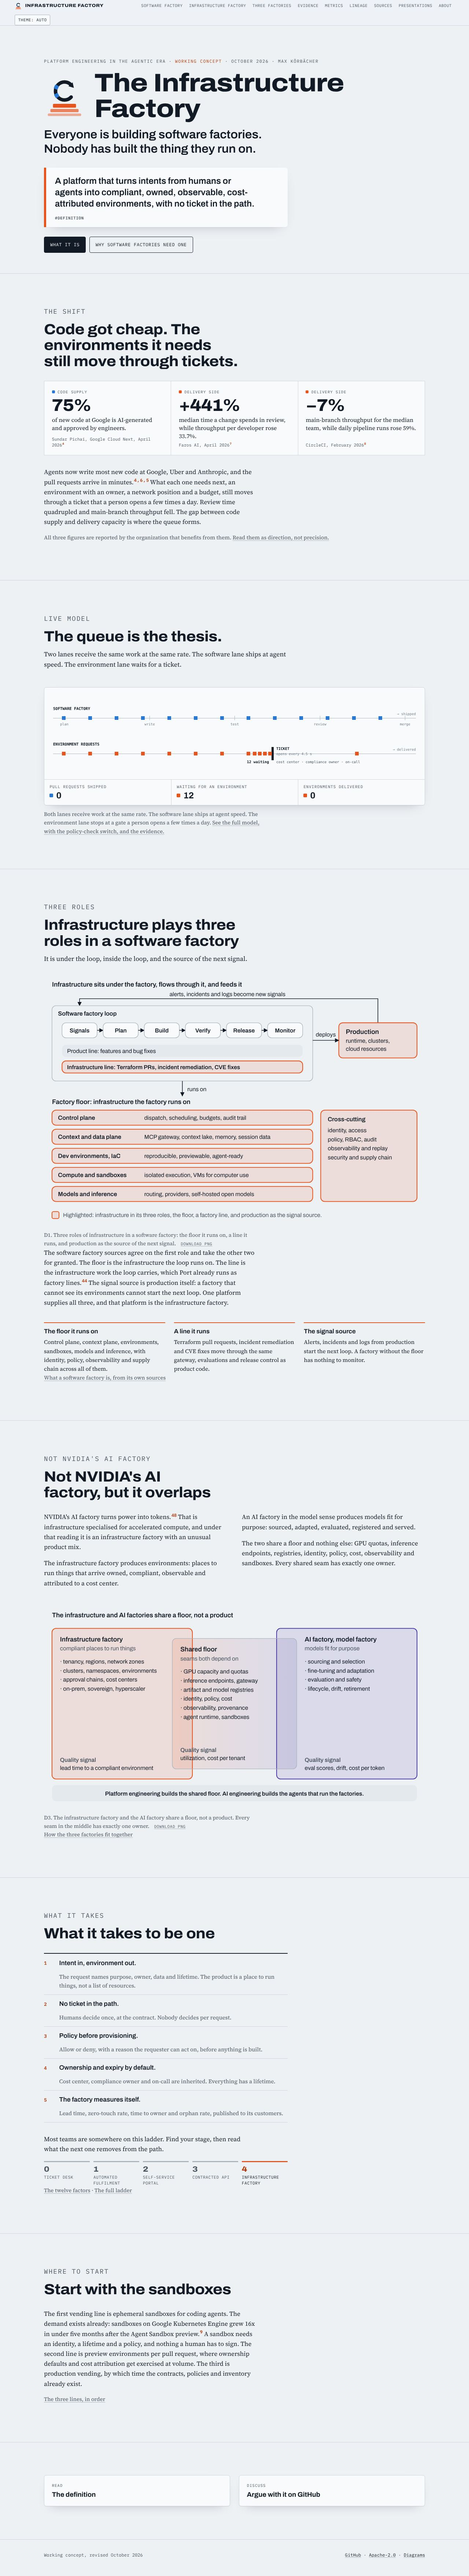
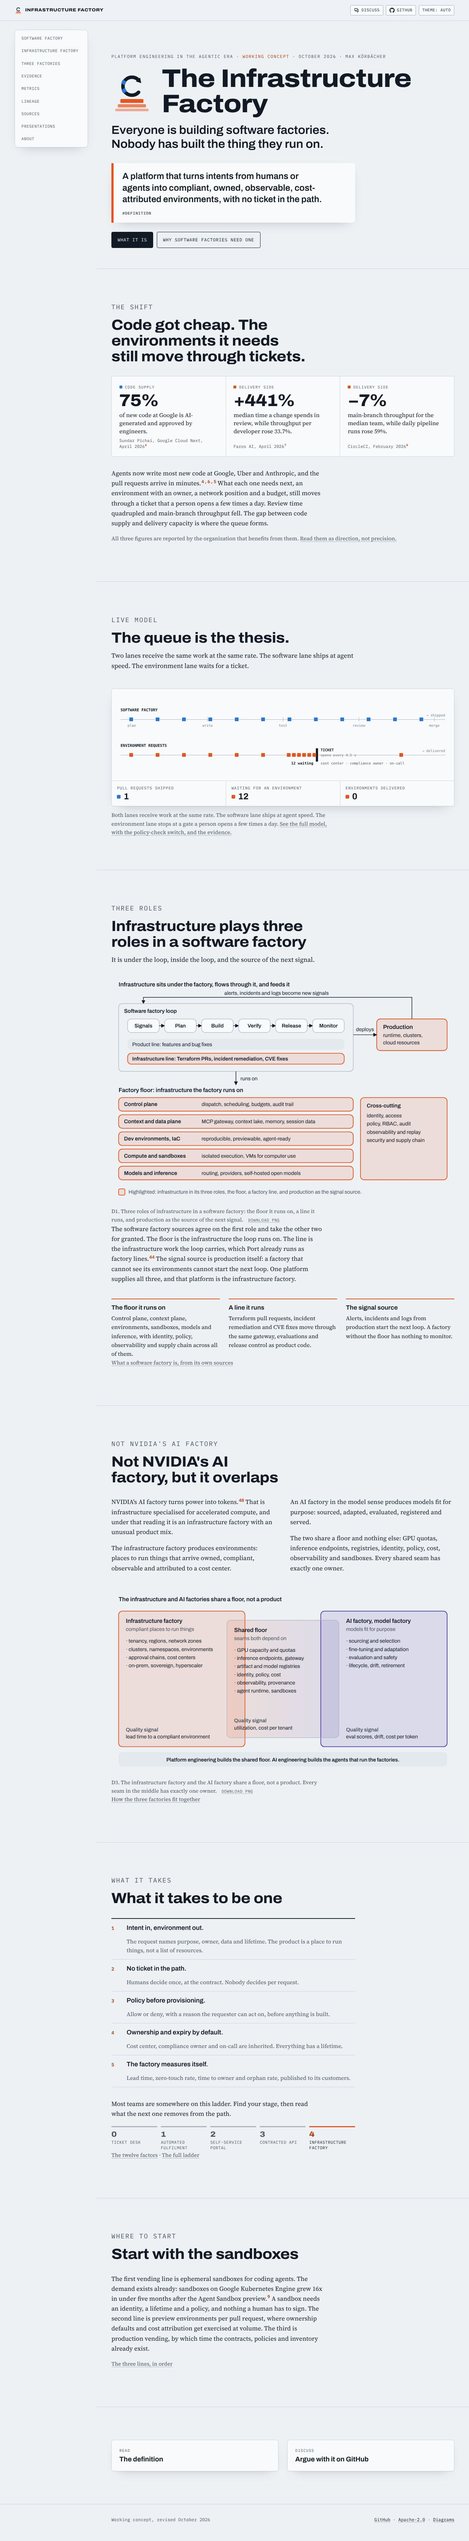
Header: Discuss and GitHub buttons, pages as a floating left rail
The top bar now holds the wordmark, a Discuss button (GitHub
Discussions), a GitHub button (the repository) and the theme switch.
The page links move out of the bar: from 1280px they float in a card at
the left edge that stays put while the page scrolls, with the current
page marked, and the content moves over to make room. Below 1280px the
Pages button opens them as a drop-down under the bar, as the phone menu
did before; on phones the two new buttons show their icons only. All
of it still works without JavaScript, and the header stays byte-identical
across pages. PR screenshots retaken.

Claude-Session: https://claude.ai/code/session_017GWBD8DaegsK6NQcPEY7no

diff --git a/assets/site.css b/assets/site.css
@@ -27,6 +27,7 @@
   --font-mono: "IBM Plex Mono", "IBM Plex Mono Fallback", ui-monospace, "SFMono-Regular", Menlo, Consolas, monospace;
   --measure: 66ch;
   --frame: 1120px;
+  --rail-w: 200px;        /* the floating pages rail from 1280px */
   --gutter: clamp(16px, 4vw, 40px);
   --radius: 6px;
 }
@@ -136,7 +137,7 @@ tbody tr:hover { background: var(--surface-2); }
   -webkit-backdrop-filter: blur(10px); backdrop-filter: blur(10px);
   border-bottom: 1px solid var(--line);
 }
-.site-nav .frame { display: flex; flex-wrap: wrap; align-items: center; gap: 0.5rem 1rem; min-height: 56px; width: min(1320px, 100%); position: relative; }
+.site-nav .frame { display: flex; flex-wrap: wrap; align-items: center; gap: 0.5rem 0.8rem; min-height: 56px; width: min(1320px, 100%); position: relative; }
 .wordmark {
   font-family: var(--font-display); font-weight: 800; font-stretch: 112%; letter-spacing: 0.04em;
   text-transform: uppercase; font-size: 0.76rem; text-decoration: none; white-space: nowrap;
@@ -144,40 +145,51 @@ tbody tr:hover { background: var(--surface-2); }
 }
 .wordmark .mark { width: 20px; height: 20px; flex: none; display: block; }
 .nav-toggle { position: absolute; width: 1px; height: 1px; margin: -1px; opacity: 0; overflow: hidden; }
-.menu-btn { display: none; }
-.nav-links { margin-left: auto; min-width: 0; }
-.nav-links ul { list-style: none; margin: 0; padding: 0; display: flex; gap: 0.2rem; }
+/* the bar: wordmark left, actions right (Discuss, GitHub, theme), and the Pages button until the rail has room */
+.nav-actions { display: flex; align-items: center; gap: 0.45rem; margin-left: auto; order: 1; }
+.nav-btn, .theme-btn, .menu-btn {
+  flex: none; display: inline-flex; align-items: center; gap: 0.4rem; border: 1px solid var(--line-strong); background: var(--surface); color: var(--fg);
+  font-family: var(--font-mono); font-size: 0.68rem; letter-spacing: 0.05em; text-transform: uppercase; line-height: 1.2;
+  padding: 0.4rem 0.55rem; border-radius: 3px; text-decoration: none; cursor: pointer;
+}
+.nav-btn svg { width: 14px; height: 14px; display: block; fill: currentColor; }
+.nav-btn:hover, .theme-btn:hover, .menu-btn:hover { border-color: var(--accent); }
+.nav-btn:hover { color: var(--accent-ink); }
+.menu-btn { order: 2; }
+.nav-toggle:focus-visible ~ .menu-btn { outline: 2px solid var(--accent); outline-offset: 3px; }
+.nav-toggle:checked ~ .menu-btn { background: var(--fg); color: var(--bg); }
+/* the pages: a drop-down under the bar, opened by the Pages button, until there is room for the rail */
+.nav-links { display: none; order: 3; flex: 1 1 100%; min-width: 0; margin: 0.2rem 0 0; padding: 0 0 0.4rem; }
+.nav-toggle:checked ~ .nav-links { display: block; }
+.nav-links ul { list-style: none; margin: 0; padding: 0; display: flex; flex-direction: column; gap: 0; }
 .nav-links li a {
-  display: block; padding: 0.45rem 0.45rem; font-family: var(--font-mono); font-size: 0.68rem; letter-spacing: 0.05em;
-  text-transform: uppercase; text-decoration: none; color: var(--muted); white-space: nowrap; border-radius: 3px;
+  display: block; padding: 0.7rem 0.5rem; border-top: 1px solid var(--line); font-family: var(--font-mono); font-size: 0.78rem; letter-spacing: 0.05em;
+  text-transform: uppercase; text-decoration: none; color: var(--muted);
 }
-.nav-links li a:hover, .nav-links li a[aria-current="page"] { color: var(--fg); background: var(--surface-2); }
-.theme-btn {
-  flex: none; border: 1px solid var(--line-strong); background: var(--surface); color: var(--fg);
-  font-family: var(--font-mono); font-size: 0.68rem; letter-spacing: 0.05em; text-transform: uppercase;
-  padding: 0.4rem 0.55rem; border-radius: 3px; cursor: pointer;
-}
-.theme-btn:hover { border-color: var(--accent); }
-@media (max-width: 1100px) {
-  .site-nav .frame { padding-top: 0.55rem; min-height: 0; }
-  .theme-btn { margin-left: auto; }
-  .nav-links { order: 3; flex: 1 1 100%; margin: 0.15rem 0 0; padding-bottom: 0.25rem; }
-  .nav-links ul { flex-wrap: wrap; }
-}
+.nav-links li a:hover, .nav-links li a[aria-current="page"] { color: var(--fg); }
+.nav-links li a[aria-current="page"] { box-shadow: inset 3px 0 0 var(--accent); padding-left: 0.8rem; }
 @media (max-width: 720px) {
-  .site-nav .frame { padding-bottom: 0.55rem; }
+  .site-nav .frame { padding-block: 0.55rem; min-height: 0; gap: 0.5rem 0.6rem; }
   .wordmark { font-size: 0.74rem; }
-  .theme-btn { order: 1; font-size: 0.66rem; padding: 0.35rem 0.5rem; }
-  .menu-btn {
-    display: inline-flex; order: 2; align-items: center; border: 1px solid var(--line-strong); background: var(--surface); color: var(--fg);
-    font-family: var(--font-mono); font-size: 0.66rem; letter-spacing: 0.05em; text-transform: uppercase; padding: 0.35rem 0.55rem; border-radius: 3px; cursor: pointer;
+  .nav-actions { gap: 0.35rem; }
+  .nav-btn, .theme-btn, .menu-btn { font-size: 0.66rem; padding: 0.35rem 0.5rem; }
+  .nav-btn .label { position: absolute; width: 1px; height: 1px; margin: -1px; padding: 0; overflow: hidden; clip: rect(0 0 0 0); white-space: nowrap; }
+  .nav-btn { padding: 0.45rem 0.5rem; }
+}
+/* the rail: from 1280px the pages float at the left edge and the content moves over to make room */
+@media (min-width: 1280px) {
+  .site-nav .frame { width: 100%; }
+  .menu-btn { display: none; }
+  .nav-links {
+    display: block; position: fixed; left: var(--gutter); top: calc(81px + env(safe-area-inset-top, 0px)); width: var(--rail-w);
+    max-height: calc(100vh - 105px); overflow: auto; flex: none; margin: 0; padding: 0.4rem;
+    background: var(--surface); border: 1px solid var(--line); border-radius: 8px; box-shadow: var(--shadow);
   }
-  .nav-toggle:focus-visible ~ .menu-btn { outline: 2px solid var(--accent); outline-offset: 3px; }
-  .nav-toggle:checked ~ .menu-btn { background: var(--fg); color: var(--bg); }
-  .nav-links { display: none; order: 3; flex: 1 1 100%; margin: 0.2rem 0 0; padding: 0; }
-  .nav-toggle:checked ~ .nav-links { display: block; }
-  .nav-links ul { flex-direction: column; gap: 0; }
-  .nav-links li a { padding: 0.7rem 0.4rem; border-top: 1px solid var(--line); font-size: 0.78rem; white-space: normal; }
+  .nav-links ul { gap: 2px; }
+  .nav-links li a { padding: 0.55rem 0.7rem; border-top: 0; border-radius: 4px; font-size: 0.68rem; line-height: 1.35; }
+  .nav-links li a:hover { background: var(--surface-2); }
+  .nav-links li a[aria-current="page"] { background: var(--accent-soft); box-shadow: inset 3px 0 0 var(--accent); padding-left: 0.7rem; }
+  main, .prevnext, .site-footer { padding-left: calc(var(--gutter) + var(--rail-w) + 1.5rem); }
 }
 
 /* ---------- hero ---------- */

diff --git a/about/index.html b/about/index.html
@@ -33,9 +33,9 @@
 <header class="site-nav">
   <div class="frame">
     <a class="wordmark" href="/"><svg class="mark" viewBox="0 0 64 64" xmlns="http://www.w3.org/2000/svg" aria-hidden="true" focusable="false"><rect x="14" y="44" width="36" height="6" rx="1.5" fill="var(--accent)" fill-opacity="1.0"/><rect x="10" y="52" width="44" height="5" rx="1.5" fill="var(--accent)" fill-opacity="0.7"/><rect x="6" y="59" width="52" height="4" rx="1.5" fill="var(--accent)" fill-opacity="0.45"/><path d="M42.4,33.4 A14,14 0 1 1 42.4,14.6" fill="none" stroke="currentColor" stroke-width="5.5" stroke-linecap="round"/><polygon points="38.2,16.5 44.7,10.6 46.6,19.2" fill="currentColor"/><rect x="16.7" y="27.8" width="6.4" height="6.4" rx="1" transform="rotate(240 19.9 31)" fill="var(--blue)"/><rect x="16.1" y="14.9" width="6.4" height="6.4" rx="1" transform="rotate(295 19.3 18.1)" fill="var(--blue)"/></svg>Infrastructure Factory</a>
-    <input type="checkbox" id="nav-toggle" class="nav-toggle" aria-label="Open the menu">
-    <label for="nav-toggle" class="menu-btn" aria-hidden="true">Menu</label>
-    <nav class="nav-links" aria-label="Site">
+    <input type="checkbox" id="nav-toggle" class="nav-toggle" aria-label="Open the pages menu">
+    <label for="nav-toggle" class="menu-btn" aria-hidden="true">Pages</label>
+    <nav class="nav-links" aria-label="Pages">
       <ul>
           <li><a href="/software-factory/">Software factory</a></li>
           <li><a href="/infrastructure-factory/">Infrastructure factory</a></li>
@@ -48,7 +48,11 @@
           <li><a href="/about/" aria-current="page">About</a></li>
       </ul>
     </nav>
-    <button class="theme-btn" id="theme-btn" type="button">Theme: auto</button>
+    <div class="nav-actions">
+      <a class="nav-btn" href="https://github.com/mkorbi/infrastructure-factory/discussions"><svg viewBox="0 0 16 16" aria-hidden="true" focusable="false"><path d="M2.5 2.5h8v6h-4l-2.5 2.5v-2.5h-1.5z" fill="none" stroke="currentColor" stroke-width="1.4" stroke-linejoin="round"/><path d="M12 5.5h1.5v6h-1.5v2.5l-2.5-2.5h-3" fill="none" stroke="currentColor" stroke-width="1.4" stroke-linejoin="round"/></svg><span class="label">Discuss</span></a>
+      <a class="nav-btn" href="https://github.com/mkorbi/infrastructure-factory"><svg viewBox="0 0 16 16" aria-hidden="true" focusable="false"><path d="M8 0C3.58 0 0 3.58 0 8c0 3.54 2.29 6.53 5.47 7.59.4.07.55-.17.55-.38 0-.19-.01-.82-.01-1.49-2.01.37-2.53-.49-2.69-.94-.09-.23-.48-.94-.82-1.13-.28-.15-.68-.52-.01-.53.63-.01 1.08.58 1.23.82.72 1.21 1.87.87 2.33.66.07-.52.28-.87.51-1.07-1.78-.2-3.64-.89-3.64-3.95 0-.87.31-1.59.82-2.15-.08-.2-.36-1.02.08-2.12 0 0 .67-.21 2.2.82.64-.18 1.32-.27 2-.27.68 0 1.36.09 2 .27 1.53-1.04 2.2-.82 2.2-.82.44 1.1.16 1.92.08 2.12.51.56.82 1.27.82 2.15 0 3.07-1.87 3.75-3.65 3.95.29.25.54.73.54 1.48 0 1.07-.01 1.93-.01 2.2 0 .21.15.46.55.38A8.013 8.013 0 0 0 16 8c0-4.42-3.58-8-8-8z"/></svg><span class="label">GitHub</span></a>
+      <button class="theme-btn" id="theme-btn" type="button">Theme: auto</button>
+    </div>
   </div>
 </header>
 <main id="main">

diff --git a/infrastructure-factory/index.html b/infrastructure-factory/index.html
@@ -33,9 +33,9 @@
 <header class="site-nav">
   <div class="frame">
     <a class="wordmark" href="/"><svg class="mark" viewBox="0 0 64 64" xmlns="http://www.w3.org/2000/svg" aria-hidden="true" focusable="false"><rect x="14" y="44" width="36" height="6" rx="1.5" fill="var(--accent)" fill-opacity="1.0"/><rect x="10" y="52" width="44" height="5" rx="1.5" fill="var(--accent)" fill-opacity="0.7"/><rect x="6" y="59" width="52" height="4" rx="1.5" fill="var(--accent)" fill-opacity="0.45"/><path d="M42.4,33.4 A14,14 0 1 1 42.4,14.6" fill="none" stroke="currentColor" stroke-width="5.5" stroke-linecap="round"/><polygon points="38.2,16.5 44.7,10.6 46.6,19.2" fill="currentColor"/><rect x="16.7" y="27.8" width="6.4" height="6.4" rx="1" transform="rotate(240 19.9 31)" fill="var(--blue)"/><rect x="16.1" y="14.9" width="6.4" height="6.4" rx="1" transform="rotate(295 19.3 18.1)" fill="var(--blue)"/></svg>Infrastructure Factory</a>
-    <input type="checkbox" id="nav-toggle" class="nav-toggle" aria-label="Open the menu">
-    <label for="nav-toggle" class="menu-btn" aria-hidden="true">Menu</label>
-    <nav class="nav-links" aria-label="Site">
+    <input type="checkbox" id="nav-toggle" class="nav-toggle" aria-label="Open the pages menu">
+    <label for="nav-toggle" class="menu-btn" aria-hidden="true">Pages</label>
+    <nav class="nav-links" aria-label="Pages">
       <ul>
           <li><a href="/software-factory/">Software factory</a></li>
           <li><a href="/infrastructure-factory/" aria-current="page">Infrastructure factory</a></li>
@@ -48,7 +48,11 @@
           <li><a href="/about/">About</a></li>
       </ul>
     </nav>
-    <button class="theme-btn" id="theme-btn" type="button">Theme: auto</button>
+    <div class="nav-actions">
+      <a class="nav-btn" href="https://github.com/mkorbi/infrastructure-factory/discussions"><svg viewBox="0 0 16 16" aria-hidden="true" focusable="false"><path d="M2.5 2.5h8v6h-4l-2.5 2.5v-2.5h-1.5z" fill="none" stroke="currentColor" stroke-width="1.4" stroke-linejoin="round"/><path d="M12 5.5h1.5v6h-1.5v2.5l-2.5-2.5h-3" fill="none" stroke="currentColor" stroke-width="1.4" stroke-linejoin="round"/></svg><span class="label">Discuss</span></a>
+      <a class="nav-btn" href="https://github.com/mkorbi/infrastructure-factory"><svg viewBox="0 0 16 16" aria-hidden="true" focusable="false"><path d="M8 0C3.58 0 0 3.58 0 8c0 3.54 2.29 6.53 5.47 7.59.4.07.55-.17.55-.38 0-.19-.01-.82-.01-1.49-2.01.37-2.53-.49-2.69-.94-.09-.23-.48-.94-.82-1.13-.28-.15-.68-.52-.01-.53.63-.01 1.08.58 1.23.82.72 1.21 1.87.87 2.33.66.07-.52.28-.87.51-1.07-1.78-.2-3.64-.89-3.64-3.95 0-.87.31-1.59.82-2.15-.08-.2-.36-1.02.08-2.12 0 0 .67-.21 2.2.82.64-.18 1.32-.27 2-.27.68 0 1.36.09 2 .27 1.53-1.04 2.2-.82 2.2-.82.44 1.1.16 1.92.08 2.12.51.56.82 1.27.82 2.15 0 3.07-1.87 3.75-3.65 3.95.29.25.54.73.54 1.48 0 1.07-.01 1.93-.01 2.2 0 .21.15.46.55.38A8.013 8.013 0 0 0 16 8c0-4.42-3.58-8-8-8z"/></svg><span class="label">GitHub</span></a>
+      <button class="theme-btn" id="theme-btn" type="button">Theme: auto</button>
+    </div>
   </div>
 </header>
 <main id="main">

diff --git a/software-factory/index.html b/software-factory/index.html
@@ -33,9 +33,9 @@
 <header class="site-nav">
   <div class="frame">
     <a class="wordmark" href="/"><svg class="mark" viewBox="0 0 64 64" xmlns="http://www.w3.org/2000/svg" aria-hidden="true" focusable="false"><rect x="14" y="44" width="36" height="6" rx="1.5" fill="var(--accent)" fill-opacity="1.0"/><rect x="10" y="52" width="44" height="5" rx="1.5" fill="var(--accent)" fill-opacity="0.7"/><rect x="6" y="59" width="52" height="4" rx="1.5" fill="var(--accent)" fill-opacity="0.45"/><path d="M42.4,33.4 A14,14 0 1 1 42.4,14.6" fill="none" stroke="currentColor" stroke-width="5.5" stroke-linecap="round"/><polygon points="38.2,16.5 44.7,10.6 46.6,19.2" fill="currentColor"/><rect x="16.7" y="27.8" width="6.4" height="6.4" rx="1" transform="rotate(240 19.9 31)" fill="var(--blue)"/><rect x="16.1" y="14.9" width="6.4" height="6.4" rx="1" transform="rotate(295 19.3 18.1)" fill="var(--blue)"/></svg>Infrastructure Factory</a>
-    <input type="checkbox" id="nav-toggle" class="nav-toggle" aria-label="Open the menu">
-    <label for="nav-toggle" class="menu-btn" aria-hidden="true">Menu</label>
-    <nav class="nav-links" aria-label="Site">
+    <input type="checkbox" id="nav-toggle" class="nav-toggle" aria-label="Open the pages menu">
+    <label for="nav-toggle" class="menu-btn" aria-hidden="true">Pages</label>
+    <nav class="nav-links" aria-label="Pages">
       <ul>
           <li><a href="/software-factory/" aria-current="page">Software factory</a></li>
           <li><a href="/infrastructure-factory/">Infrastructure factory</a></li>
@@ -48,7 +48,11 @@
           <li><a href="/about/">About</a></li>
       </ul>
     </nav>
-    <button class="theme-btn" id="theme-btn" type="button">Theme: auto</button>
+    <div class="nav-actions">
+      <a class="nav-btn" href="https://github.com/mkorbi/infrastructure-factory/discussions"><svg viewBox="0 0 16 16" aria-hidden="true" focusable="false"><path d="M2.5 2.5h8v6h-4l-2.5 2.5v-2.5h-1.5z" fill="none" stroke="currentColor" stroke-width="1.4" stroke-linejoin="round"/><path d="M12 5.5h1.5v6h-1.5v2.5l-2.5-2.5h-3" fill="none" stroke="currentColor" stroke-width="1.4" stroke-linejoin="round"/></svg><span class="label">Discuss</span></a>
+      <a class="nav-btn" href="https://github.com/mkorbi/infrastructure-factory"><svg viewBox="0 0 16 16" aria-hidden="true" focusable="false"><path d="M8 0C3.58 0 0 3.58 0 8c0 3.54 2.29 6.53 5.47 7.59.4.07.55-.17.55-.38 0-.19-.01-.82-.01-1.49-2.01.37-2.53-.49-2.69-.94-.09-.23-.48-.94-.82-1.13-.28-.15-.68-.52-.01-.53.63-.01 1.08.58 1.23.82.72 1.21 1.87.87 2.33.66.07-.52.28-.87.51-1.07-1.78-.2-3.64-.89-3.64-3.95 0-.87.31-1.59.82-2.15-.08-.2-.36-1.02.08-2.12 0 0 .67-.21 2.2.82.64-.18 1.32-.27 2-.27.68 0 1.36.09 2 .27 1.53-1.04 2.2-.82 2.2-.82.44 1.1.16 1.92.08 2.12.51.56.82 1.27.82 2.15 0 3.07-1.87 3.75-3.65 3.95.29.25.54.73.54 1.48 0 1.07-.01 1.93-.01 2.2 0 .21.15.46.55.38A8.013 8.013 0 0 0 16 8c0-4.42-3.58-8-8-8z"/></svg><span class="label">GitHub</span></a>
+      <button class="theme-btn" id="theme-btn" type="button">Theme: auto</button>
+    </div>
   </div>
 </header>
 <main id="main">

diff --git a/evidence/index.html b/evidence/index.html
@@ -33,9 +33,9 @@
 <header class="site-nav">
   <div class="frame">
     <a class="wordmark" href="/"><svg class="mark" viewBox="0 0 64 64" xmlns="http://www.w3.org/2000/svg" aria-hidden="true" focusable="false"><rect x="14" y="44" width="36" height="6" rx="1.5" fill="var(--accent)" fill-opacity="1.0"/><rect x="10" y="52" width="44" height="5" rx="1.5" fill="var(--accent)" fill-opacity="0.7"/><rect x="6" y="59" width="52" height="4" rx="1.5" fill="var(--accent)" fill-opacity="0.45"/><path d="M42.4,33.4 A14,14 0 1 1 42.4,14.6" fill="none" stroke="currentColor" stroke-width="5.5" stroke-linecap="round"/><polygon points="38.2,16.5 44.7,10.6 46.6,19.2" fill="currentColor"/><rect x="16.7" y="27.8" width="6.4" height="6.4" rx="1" transform="rotate(240 19.9 31)" fill="var(--blue)"/><rect x="16.1" y="14.9" width="6.4" height="6.4" rx="1" transform="rotate(295 19.3 18.1)" fill="var(--blue)"/></svg>Infrastructure Factory</a>
-    <input type="checkbox" id="nav-toggle" class="nav-toggle" aria-label="Open the menu">
-    <label for="nav-toggle" class="menu-btn" aria-hidden="true">Menu</label>
-    <nav class="nav-links" aria-label="Site">
+    <input type="checkbox" id="nav-toggle" class="nav-toggle" aria-label="Open the pages menu">
+    <label for="nav-toggle" class="menu-btn" aria-hidden="true">Pages</label>
+    <nav class="nav-links" aria-label="Pages">
       <ul>
           <li><a href="/software-factory/">Software factory</a></li>
           <li><a href="/infrastructure-factory/">Infrastructure factory</a></li>
@@ -48,7 +48,11 @@
           <li><a href="/about/">About</a></li>
       </ul>
     </nav>
-    <button class="theme-btn" id="theme-btn" type="button">Theme: auto</button>
+    <div class="nav-actions">
+      <a class="nav-btn" href="https://github.com/mkorbi/infrastructure-factory/discussions"><svg viewBox="0 0 16 16" aria-hidden="true" focusable="false"><path d="M2.5 2.5h8v6h-4l-2.5 2.5v-2.5h-1.5z" fill="none" stroke="currentColor" stroke-width="1.4" stroke-linejoin="round"/><path d="M12 5.5h1.5v6h-1.5v2.5l-2.5-2.5h-3" fill="none" stroke="currentColor" stroke-width="1.4" stroke-linejoin="round"/></svg><span class="label">Discuss</span></a>
+      <a class="nav-btn" href="https://github.com/mkorbi/infrastructure-factory"><svg viewBox="0 0 16 16" aria-hidden="true" focusable="false"><path d="M8 0C3.58 0 0 3.58 0 8c0 3.54 2.29 6.53 5.47 7.59.4.07.55-.17.55-.38 0-.19-.01-.82-.01-1.49-2.01.37-2.53-.49-2.69-.94-.09-.23-.48-.94-.82-1.13-.28-.15-.68-.52-.01-.53.63-.01 1.08.58 1.23.82.72 1.21 1.87.87 2.33.66.07-.52.28-.87.51-1.07-1.78-.2-3.64-.89-3.64-3.95 0-.87.31-1.59.82-2.15-.08-.2-.36-1.02.08-2.12 0 0 .67-.21 2.2.82.64-.18 1.32-.27 2-.27.68 0 1.36.09 2 .27 1.53-1.04 2.2-.82 2.2-.82.44 1.1.16 1.92.08 2.12.51.56.82 1.27.82 2.15 0 3.07-1.87 3.75-3.65 3.95.29.25.54.73.54 1.48 0 1.07-.01 1.93-.01 2.2 0 .21.15.46.55.38A8.013 8.013 0 0 0 16 8c0-4.42-3.58-8-8-8z"/></svg><span class="label">GitHub</span></a>
+      <button class="theme-btn" id="theme-btn" type="button">Theme: auto</button>
+    </div>
   </div>
 </header>
 <main id="main">

diff --git a/index.html b/index.html
@@ -33,9 +33,9 @@
 <header class="site-nav">
   <div class="frame">
     <a class="wordmark" href="/"><svg class="mark" viewBox="0 0 64 64" xmlns="http://www.w3.org/2000/svg" aria-hidden="true" focusable="false"><rect x="14" y="44" width="36" height="6" rx="1.5" fill="var(--accent)" fill-opacity="1.0"/><rect x="10" y="52" width="44" height="5" rx="1.5" fill="var(--accent)" fill-opacity="0.7"/><rect x="6" y="59" width="52" height="4" rx="1.5" fill="var(--accent)" fill-opacity="0.45"/><path d="M42.4,33.4 A14,14 0 1 1 42.4,14.6" fill="none" stroke="currentColor" stroke-width="5.5" stroke-linecap="round"/><polygon points="38.2,16.5 44.7,10.6 46.6,19.2" fill="currentColor"/><rect x="16.7" y="27.8" width="6.4" height="6.4" rx="1" transform="rotate(240 19.9 31)" fill="var(--blue)"/><rect x="16.1" y="14.9" width="6.4" height="6.4" rx="1" transform="rotate(295 19.3 18.1)" fill="var(--blue)"/></svg>Infrastructure Factory</a>
-    <input type="checkbox" id="nav-toggle" class="nav-toggle" aria-label="Open the menu">
-    <label for="nav-toggle" class="menu-btn" aria-hidden="true">Menu</label>
-    <nav class="nav-links" aria-label="Site">
+    <input type="checkbox" id="nav-toggle" class="nav-toggle" aria-label="Open the pages menu">
+    <label for="nav-toggle" class="menu-btn" aria-hidden="true">Pages</label>
+    <nav class="nav-links" aria-label="Pages">
       <ul>
           <li><a href="/software-factory/">Software factory</a></li>
           <li><a href="/infrastructure-factory/">Infrastructure factory</a></li>
@@ -48,7 +48,11 @@
           <li><a href="/about/">About</a></li>
       </ul>
     </nav>
-    <button class="theme-btn" id="theme-btn" type="button">Theme: auto</button>
+    <div class="nav-actions">
+      <a class="nav-btn" href="https://github.com/mkorbi/infrastructure-factory/discussions"><svg viewBox="0 0 16 16" aria-hidden="true" focusable="false"><path d="M2.5 2.5h8v6h-4l-2.5 2.5v-2.5h-1.5z" fill="none" stroke="currentColor" stroke-width="1.4" stroke-linejoin="round"/><path d="M12 5.5h1.5v6h-1.5v2.5l-2.5-2.5h-3" fill="none" stroke="currentColor" stroke-width="1.4" stroke-linejoin="round"/></svg><span class="label">Discuss</span></a>
+      <a class="nav-btn" href="https://github.com/mkorbi/infrastructure-factory"><svg viewBox="0 0 16 16" aria-hidden="true" focusable="false"><path d="M8 0C3.58 0 0 3.58 0 8c0 3.54 2.29 6.53 5.47 7.59.4.07.55-.17.55-.38 0-.19-.01-.82-.01-1.49-2.01.37-2.53-.49-2.69-.94-.09-.23-.48-.94-.82-1.13-.28-.15-.68-.52-.01-.53.63-.01 1.08.58 1.23.82.72 1.21 1.87.87 2.33.66.07-.52.28-.87.51-1.07-1.78-.2-3.64-.89-3.64-3.95 0-.87.31-1.59.82-2.15-.08-.2-.36-1.02.08-2.12 0 0 .67-.21 2.2.82.64-.18 1.32-.27 2-.27.68 0 1.36.09 2 .27 1.53-1.04 2.2-.82 2.2-.82.44 1.1.16 1.92.08 2.12.51.56.82 1.27.82 2.15 0 3.07-1.87 3.75-3.65 3.95.29.25.54.73.54 1.48 0 1.07-.01 1.93-.01 2.2 0 .21.15.46.55.38A8.013 8.013 0 0 0 16 8c0-4.42-3.58-8-8-8z"/></svg><span class="label">GitHub</span></a>
+      <button class="theme-btn" id="theme-btn" type="button">Theme: auto</button>
+    </div>
   </div>
 </header>
 <main id="main">

diff --git a/lineage/index.html b/lineage/index.html
@@ -33,9 +33,9 @@
 <header class="site-nav">
   <div class="frame">
     <a class="wordmark" href="/"><svg class="mark" viewBox="0 0 64 64" xmlns="http://www.w3.org/2000/svg" aria-hidden="true" focusable="false"><rect x="14" y="44" width="36" height="6" rx="1.5" fill="var(--accent)" fill-opacity="1.0"/><rect x="10" y="52" width="44" height="5" rx="1.5" fill="var(--accent)" fill-opacity="0.7"/><rect x="6" y="59" width="52" height="4" rx="1.5" fill="var(--accent)" fill-opacity="0.45"/><path d="M42.4,33.4 A14,14 0 1 1 42.4,14.6" fill="none" stroke="currentColor" stroke-width="5.5" stroke-linecap="round"/><polygon points="38.2,16.5 44.7,10.6 46.6,19.2" fill="currentColor"/><rect x="16.7" y="27.8" width="6.4" height="6.4" rx="1" transform="rotate(240 19.9 31)" fill="var(--blue)"/><rect x="16.1" y="14.9" width="6.4" height="6.4" rx="1" transform="rotate(295 19.3 18.1)" fill="var(--blue)"/></svg>Infrastructure Factory</a>
-    <input type="checkbox" id="nav-toggle" class="nav-toggle" aria-label="Open the menu">
-    <label for="nav-toggle" class="menu-btn" aria-hidden="true">Menu</label>
-    <nav class="nav-links" aria-label="Site">
+    <input type="checkbox" id="nav-toggle" class="nav-toggle" aria-label="Open the pages menu">
+    <label for="nav-toggle" class="menu-btn" aria-hidden="true">Pages</label>
+    <nav class="nav-links" aria-label="Pages">
       <ul>
           <li><a href="/software-factory/">Software factory</a></li>
           <li><a href="/infrastructure-factory/">Infrastructure factory</a></li>
@@ -48,7 +48,11 @@
           <li><a href="/about/">About</a></li>
       </ul>
     </nav>
-    <button class="theme-btn" id="theme-btn" type="button">Theme: auto</button>
+    <div class="nav-actions">
+      <a class="nav-btn" href="https://github.com/mkorbi/infrastructure-factory/discussions"><svg viewBox="0 0 16 16" aria-hidden="true" focusable="false"><path d="M2.5 2.5h8v6h-4l-2.5 2.5v-2.5h-1.5z" fill="none" stroke="currentColor" stroke-width="1.4" stroke-linejoin="round"/><path d="M12 5.5h1.5v6h-1.5v2.5l-2.5-2.5h-3" fill="none" stroke="currentColor" stroke-width="1.4" stroke-linejoin="round"/></svg><span class="label">Discuss</span></a>
+      <a class="nav-btn" href="https://github.com/mkorbi/infrastructure-factory"><svg viewBox="0 0 16 16" aria-hidden="true" focusable="false"><path d="M8 0C3.58 0 0 3.58 0 8c0 3.54 2.29 6.53 5.47 7.59.4.07.55-.17.55-.38 0-.19-.01-.82-.01-1.49-2.01.37-2.53-.49-2.69-.94-.09-.23-.48-.94-.82-1.13-.28-.15-.68-.52-.01-.53.63-.01 1.08.58 1.23.82.72 1.21 1.87.87 2.33.66.07-.52.28-.87.51-1.07-1.78-.2-3.64-.89-3.64-3.95 0-.87.31-1.59.82-2.15-.08-.2-.36-1.02.08-2.12 0 0 .67-.21 2.2.82.64-.18 1.32-.27 2-.27.68 0 1.36.09 2 .27 1.53-1.04 2.2-.82 2.2-.82.44 1.1.16 1.92.08 2.12.51.56.82 1.27.82 2.15 0 3.07-1.87 3.75-3.65 3.95.29.25.54.73.54 1.48 0 1.07-.01 1.93-.01 2.2 0 .21.15.46.55.38A8.013 8.013 0 0 0 16 8c0-4.42-3.58-8-8-8z"/></svg><span class="label">GitHub</span></a>
+      <button class="theme-btn" id="theme-btn" type="button">Theme: auto</button>
+    </div>
   </div>
 </header>
 <main id="main">

diff --git a/metrics/index.html b/metrics/index.html
@@ -33,9 +33,9 @@
 <header class="site-nav">
   <div class="frame">
     <a class="wordmark" href="/"><svg class="mark" viewBox="0 0 64 64" xmlns="http://www.w3.org/2000/svg" aria-hidden="true" focusable="false"><rect x="14" y="44" width="36" height="6" rx="1.5" fill="var(--accent)" fill-opacity="1.0"/><rect x="10" y="52" width="44" height="5" rx="1.5" fill="var(--accent)" fill-opacity="0.7"/><rect x="6" y="59" width="52" height="4" rx="1.5" fill="var(--accent)" fill-opacity="0.45"/><path d="M42.4,33.4 A14,14 0 1 1 42.4,14.6" fill="none" stroke="currentColor" stroke-width="5.5" stroke-linecap="round"/><polygon points="38.2,16.5 44.7,10.6 46.6,19.2" fill="currentColor"/><rect x="16.7" y="27.8" width="6.4" height="6.4" rx="1" transform="rotate(240 19.9 31)" fill="var(--blue)"/><rect x="16.1" y="14.9" width="6.4" height="6.4" rx="1" transform="rotate(295 19.3 18.1)" fill="var(--blue)"/></svg>Infrastructure Factory</a>
-    <input type="checkbox" id="nav-toggle" class="nav-toggle" aria-label="Open the menu">
-    <label for="nav-toggle" class="menu-btn" aria-hidden="true">Menu</label>
-    <nav class="nav-links" aria-label="Site">
+    <input type="checkbox" id="nav-toggle" class="nav-toggle" aria-label="Open the pages menu">
+    <label for="nav-toggle" class="menu-btn" aria-hidden="true">Pages</label>
+    <nav class="nav-links" aria-label="Pages">
       <ul>
           <li><a href="/software-factory/">Software factory</a></li>
           <li><a href="/infrastructure-factory/">Infrastructure factory</a></li>
@@ -48,7 +48,11 @@
           <li><a href="/about/">About</a></li>
       </ul>
     </nav>
-    <button class="theme-btn" id="theme-btn" type="button">Theme: auto</button>
+    <div class="nav-actions">
+      <a class="nav-btn" href="https://github.com/mkorbi/infrastructure-factory/discussions"><svg viewBox="0 0 16 16" aria-hidden="true" focusable="false"><path d="M2.5 2.5h8v6h-4l-2.5 2.5v-2.5h-1.5z" fill="none" stroke="currentColor" stroke-width="1.4" stroke-linejoin="round"/><path d="M12 5.5h1.5v6h-1.5v2.5l-2.5-2.5h-3" fill="none" stroke="currentColor" stroke-width="1.4" stroke-linejoin="round"/></svg><span class="label">Discuss</span></a>
+      <a class="nav-btn" href="https://github.com/mkorbi/infrastructure-factory"><svg viewBox="0 0 16 16" aria-hidden="true" focusable="false"><path d="M8 0C3.58 0 0 3.58 0 8c0 3.54 2.29 6.53 5.47 7.59.4.07.55-.17.55-.38 0-.19-.01-.82-.01-1.49-2.01.37-2.53-.49-2.69-.94-.09-.23-.48-.94-.82-1.13-.28-.15-.68-.52-.01-.53.63-.01 1.08.58 1.23.82.72 1.21 1.87.87 2.33.66.07-.52.28-.87.51-1.07-1.78-.2-3.64-.89-3.64-3.95 0-.87.31-1.59.82-2.15-.08-.2-.36-1.02.08-2.12 0 0 .67-.21 2.2.82.64-.18 1.32-.27 2-.27.68 0 1.36.09 2 .27 1.53-1.04 2.2-.82 2.2-.82.44 1.1.16 1.92.08 2.12.51.56.82 1.27.82 2.15 0 3.07-1.87 3.75-3.65 3.95.29.25.54.73.54 1.48 0 1.07-.01 1.93-.01 2.2 0 .21.15.46.55.38A8.013 8.013 0 0 0 16 8c0-4.42-3.58-8-8-8z"/></svg><span class="label">GitHub</span></a>
+      <button class="theme-btn" id="theme-btn" type="button">Theme: auto</button>
+    </div>
   </div>
 </header>
 <main id="main">

diff --git a/presentations/index.html b/presentations/index.html
@@ -33,9 +33,9 @@
 <header class="site-nav">
   <div class="frame">
     <a class="wordmark" href="/"><svg class="mark" viewBox="0 0 64 64" xmlns="http://www.w3.org/2000/svg" aria-hidden="true" focusable="false"><rect x="14" y="44" width="36" height="6" rx="1.5" fill="var(--accent)" fill-opacity="1.0"/><rect x="10" y="52" width="44" height="5" rx="1.5" fill="var(--accent)" fill-opacity="0.7"/><rect x="6" y="59" width="52" height="4" rx="1.5" fill="var(--accent)" fill-opacity="0.45"/><path d="M42.4,33.4 A14,14 0 1 1 42.4,14.6" fill="none" stroke="currentColor" stroke-width="5.5" stroke-linecap="round"/><polygon points="38.2,16.5 44.7,10.6 46.6,19.2" fill="currentColor"/><rect x="16.7" y="27.8" width="6.4" height="6.4" rx="1" transform="rotate(240 19.9 31)" fill="var(--blue)"/><rect x="16.1" y="14.9" width="6.4" height="6.4" rx="1" transform="rotate(295 19.3 18.1)" fill="var(--blue)"/></svg>Infrastructure Factory</a>
-    <input type="checkbox" id="nav-toggle" class="nav-toggle" aria-label="Open the menu">
-    <label for="nav-toggle" class="menu-btn" aria-hidden="true">Menu</label>
-    <nav class="nav-links" aria-label="Site">
+    <input type="checkbox" id="nav-toggle" class="nav-toggle" aria-label="Open the pages menu">
+    <label for="nav-toggle" class="menu-btn" aria-hidden="true">Pages</label>
+    <nav class="nav-links" aria-label="Pages">
       <ul>
           <li><a href="/software-factory/">Software factory</a></li>
           <li><a href="/infrastructure-factory/">Infrastructure factory</a></li>
@@ -48,7 +48,11 @@
           <li><a href="/about/">About</a></li>
       </ul>
     </nav>
-    <button class="theme-btn" id="theme-btn" type="button">Theme: auto</button>
+    <div class="nav-actions">
+      <a class="nav-btn" href="https://github.com/mkorbi/infrastructure-factory/discussions"><svg viewBox="0 0 16 16" aria-hidden="true" focusable="false"><path d="M2.5 2.5h8v6h-4l-2.5 2.5v-2.5h-1.5z" fill="none" stroke="currentColor" stroke-width="1.4" stroke-linejoin="round"/><path d="M12 5.5h1.5v6h-1.5v2.5l-2.5-2.5h-3" fill="none" stroke="currentColor" stroke-width="1.4" stroke-linejoin="round"/></svg><span class="label">Discuss</span></a>
+      <a class="nav-btn" href="https://github.com/mkorbi/infrastructure-factory"><svg viewBox="0 0 16 16" aria-hidden="true" focusable="false"><path d="M8 0C3.58 0 0 3.58 0 8c0 3.54 2.29 6.53 5.47 7.59.4.07.55-.17.55-.38 0-.19-.01-.82-.01-1.49-2.01.37-2.53-.49-2.69-.94-.09-.23-.48-.94-.82-1.13-.28-.15-.68-.52-.01-.53.63-.01 1.08.58 1.23.82.72 1.21 1.87.87 2.33.66.07-.52.28-.87.51-1.07-1.78-.2-3.64-.89-3.64-3.95 0-.87.31-1.59.82-2.15-.08-.2-.36-1.02.08-2.12 0 0 .67-.21 2.2.82.64-.18 1.32-.27 2-.27.68 0 1.36.09 2 .27 1.53-1.04 2.2-.82 2.2-.82.44 1.1.16 1.92.08 2.12.51.56.82 1.27.82 2.15 0 3.07-1.87 3.75-3.65 3.95.29.25.54.73.54 1.48 0 1.07-.01 1.93-.01 2.2 0 .21.15.46.55.38A8.013 8.013 0 0 0 16 8c0-4.42-3.58-8-8-8z"/></svg><span class="label">GitHub</span></a>
+      <button class="theme-btn" id="theme-btn" type="button">Theme: auto</button>
+    </div>
   </div>
 </header>
 <main id="main">

diff --git a/sources/index.html b/sources/index.html
@@ -33,9 +33,9 @@
 <header class="site-nav">
   <div class="frame">
     <a class="wordmark" href="/"><svg class="mark" viewBox="0 0 64 64" xmlns="http://www.w3.org/2000/svg" aria-hidden="true" focusable="false"><rect x="14" y="44" width="36" height="6" rx="1.5" fill="var(--accent)" fill-opacity="1.0"/><rect x="10" y="52" width="44" height="5" rx="1.5" fill="var(--accent)" fill-opacity="0.7"/><rect x="6" y="59" width="52" height="4" rx="1.5" fill="var(--accent)" fill-opacity="0.45"/><path d="M42.4,33.4 A14,14 0 1 1 42.4,14.6" fill="none" stroke="currentColor" stroke-width="5.5" stroke-linecap="round"/><polygon points="38.2,16.5 44.7,10.6 46.6,19.2" fill="currentColor"/><rect x="16.7" y="27.8" width="6.4" height="6.4" rx="1" transform="rotate(240 19.9 31)" fill="var(--blue)"/><rect x="16.1" y="14.9" width="6.4" height="6.4" rx="1" transform="rotate(295 19.3 18.1)" fill="var(--blue)"/></svg>Infrastructure Factory</a>
-    <input type="checkbox" id="nav-toggle" class="nav-toggle" aria-label="Open the menu">
-    <label for="nav-toggle" class="menu-btn" aria-hidden="true">Menu</label>
-    <nav class="nav-links" aria-label="Site">
+    <input type="checkbox" id="nav-toggle" class="nav-toggle" aria-label="Open the pages menu">
+    <label for="nav-toggle" class="menu-btn" aria-hidden="true">Pages</label>
+    <nav class="nav-links" aria-label="Pages">
       <ul>
           <li><a href="/software-factory/">Software factory</a></li>
           <li><a href="/infrastructure-factory/">Infrastructure factory</a></li>
@@ -48,7 +48,11 @@
           <li><a href="/about/">About</a></li>
       </ul>
     </nav>
-    <button class="theme-btn" id="theme-btn" type="button">Theme: auto</button>
+    <div class="nav-actions">
+      <a class="nav-btn" href="https://github.com/mkorbi/infrastructure-factory/discussions"><svg viewBox="0 0 16 16" aria-hidden="true" focusable="false"><path d="M2.5 2.5h8v6h-4l-2.5 2.5v-2.5h-1.5z" fill="none" stroke="currentColor" stroke-width="1.4" stroke-linejoin="round"/><path d="M12 5.5h1.5v6h-1.5v2.5l-2.5-2.5h-3" fill="none" stroke="currentColor" stroke-width="1.4" stroke-linejoin="round"/></svg><span class="label">Discuss</span></a>
+      <a class="nav-btn" href="https://github.com/mkorbi/infrastructure-factory"><svg viewBox="0 0 16 16" aria-hidden="true" focusable="false"><path d="M8 0C3.58 0 0 3.58 0 8c0 3.54 2.29 6.53 5.47 7.59.4.07.55-.17.55-.38 0-.19-.01-.82-.01-1.49-2.01.37-2.53-.49-2.69-.94-.09-.23-.48-.94-.82-1.13-.28-.15-.68-.52-.01-.53.63-.01 1.08.58 1.23.82.72 1.21 1.87.87 2.33.66.07-.52.28-.87.51-1.07-1.78-.2-3.64-.89-3.64-3.95 0-.87.31-1.59.82-2.15-.08-.2-.36-1.02.08-2.12 0 0 .67-.21 2.2.82.64-.18 1.32-.27 2-.27.68 0 1.36.09 2 .27 1.53-1.04 2.2-.82 2.2-.82.44 1.1.16 1.92.08 2.12.51.56.82 1.27.82 2.15 0 3.07-1.87 3.75-3.65 3.95.29.25.54.73.54 1.48 0 1.07-.01 1.93-.01 2.2 0 .21.15.46.55.38A8.013 8.013 0 0 0 16 8c0-4.42-3.58-8-8-8z"/></svg><span class="label">GitHub</span></a>
+      <button class="theme-btn" id="theme-btn" type="button">Theme: auto</button>
+    </div>
   </div>
 </header>
 <main id="main">

diff --git a/three-factories/index.html b/three-factories/index.html
@@ -33,9 +33,9 @@
 <header class="site-nav">
   <div class="frame">
     <a class="wordmark" href="/"><svg class="mark" viewBox="0 0 64 64" xmlns="http://www.w3.org/2000/svg" aria-hidden="true" focusable="false"><rect x="14" y="44" width="36" height="6" rx="1.5" fill="var(--accent)" fill-opacity="1.0"/><rect x="10" y="52" width="44" height="5" rx="1.5" fill="var(--accent)" fill-opacity="0.7"/><rect x="6" y="59" width="52" height="4" rx="1.5" fill="var(--accent)" fill-opacity="0.45"/><path d="M42.4,33.4 A14,14 0 1 1 42.4,14.6" fill="none" stroke="currentColor" stroke-width="5.5" stroke-linecap="round"/><polygon points="38.2,16.5 44.7,10.6 46.6,19.2" fill="currentColor"/><rect x="16.7" y="27.8" width="6.4" height="6.4" rx="1" transform="rotate(240 19.9 31)" fill="var(--blue)"/><rect x="16.1" y="14.9" width="6.4" height="6.4" rx="1" transform="rotate(295 19.3 18.1)" fill="var(--blue)"/></svg>Infrastructure Factory</a>
-    <input type="checkbox" id="nav-toggle" class="nav-toggle" aria-label="Open the menu">
-    <label for="nav-toggle" class="menu-btn" aria-hidden="true">Menu</label>
-    <nav class="nav-links" aria-label="Site">
+    <input type="checkbox" id="nav-toggle" class="nav-toggle" aria-label="Open the pages menu">
+    <label for="nav-toggle" class="menu-btn" aria-hidden="true">Pages</label>
+    <nav class="nav-links" aria-label="Pages">
       <ul>
           <li><a href="/software-factory/">Software factory</a></li>
           <li><a href="/infrastructure-factory/">Infrastructure factory</a></li>
@@ -48,7 +48,11 @@
           <li><a href="/about/">About</a></li>
       </ul>
     </nav>
-    <button class="theme-btn" id="theme-btn" type="button">Theme: auto</button>
+    <div class="nav-actions">
+      <a class="nav-btn" href="https://github.com/mkorbi/infrastructure-factory/discussions"><svg viewBox="0 0 16 16" aria-hidden="true" focusable="false"><path d="M2.5 2.5h8v6h-4l-2.5 2.5v-2.5h-1.5z" fill="none" stroke="currentColor" stroke-width="1.4" stroke-linejoin="round"/><path d="M12 5.5h1.5v6h-1.5v2.5l-2.5-2.5h-3" fill="none" stroke="currentColor" stroke-width="1.4" stroke-linejoin="round"/></svg><span class="label">Discuss</span></a>
+      <a class="nav-btn" href="https://github.com/mkorbi/infrastructure-factory"><svg viewBox="0 0 16 16" aria-hidden="true" focusable="false"><path d="M8 0C3.58 0 0 3.58 0 8c0 3.54 2.29 6.53 5.47 7.59.4.07.55-.17.55-.38 0-.19-.01-.82-.01-1.49-2.01.37-2.53-.49-2.69-.94-.09-.23-.48-.94-.82-1.13-.28-.15-.68-.52-.01-.53.63-.01 1.08.58 1.23.82.72 1.21 1.87.87 2.33.66.07-.52.28-.87.51-1.07-1.78-.2-3.64-.89-3.64-3.95 0-.87.31-1.59.82-2.15-.08-.2-.36-1.02.08-2.12 0 0 .67-.21 2.2.82.64-.18 1.32-.27 2-.27.68 0 1.36.09 2 .27 1.53-1.04 2.2-.82 2.2-.82.44 1.1.16 1.92.08 2.12.51.56.82 1.27.82 2.15 0 3.07-1.87 3.75-3.65 3.95.29.25.54.73.54 1.48 0 1.07-.01 1.93-.01 2.2 0 .21.15.46.55.38A8.013 8.013 0 0 0 16 8c0-4.42-3.58-8-8-8z"/></svg><span class="label">GitHub</span></a>
+      <button class="theme-btn" id="theme-btn" type="button">Theme: auto</button>
+    </div>
   </div>
 </header>
 <main id="main">

diff --git a/README.md b/README.md
@@ -68,7 +68,7 @@ Old single-page anchors such as `/#factors` redirect to the new pages.
 
 | Path | Purpose |
 |---|---|
-| `index.html`, `<slug>/index.html` | The nine pages. The header, footer and head block are duplicated on every page and must stay identical |
+| `index.html`, `<slug>/index.html` | The ten pages. The header (wordmark, Discuss and GitHub buttons, theme switch, and the pages as a floating rail from 1280px or a drop-down below), footer and head block are duplicated on every page and must stay identical |
 | `assets/site.css` | Styles, light and dark, driven by design tokens on `:root` |
 | `assets/site.js` | Old-anchor redirects, theme switch, menu, tooltips, the calculator and the queue model |
 | `assets/img/*.png` | 2x PNG exports of every diagram, linked from each figure and from `/about/#diagrams` |
